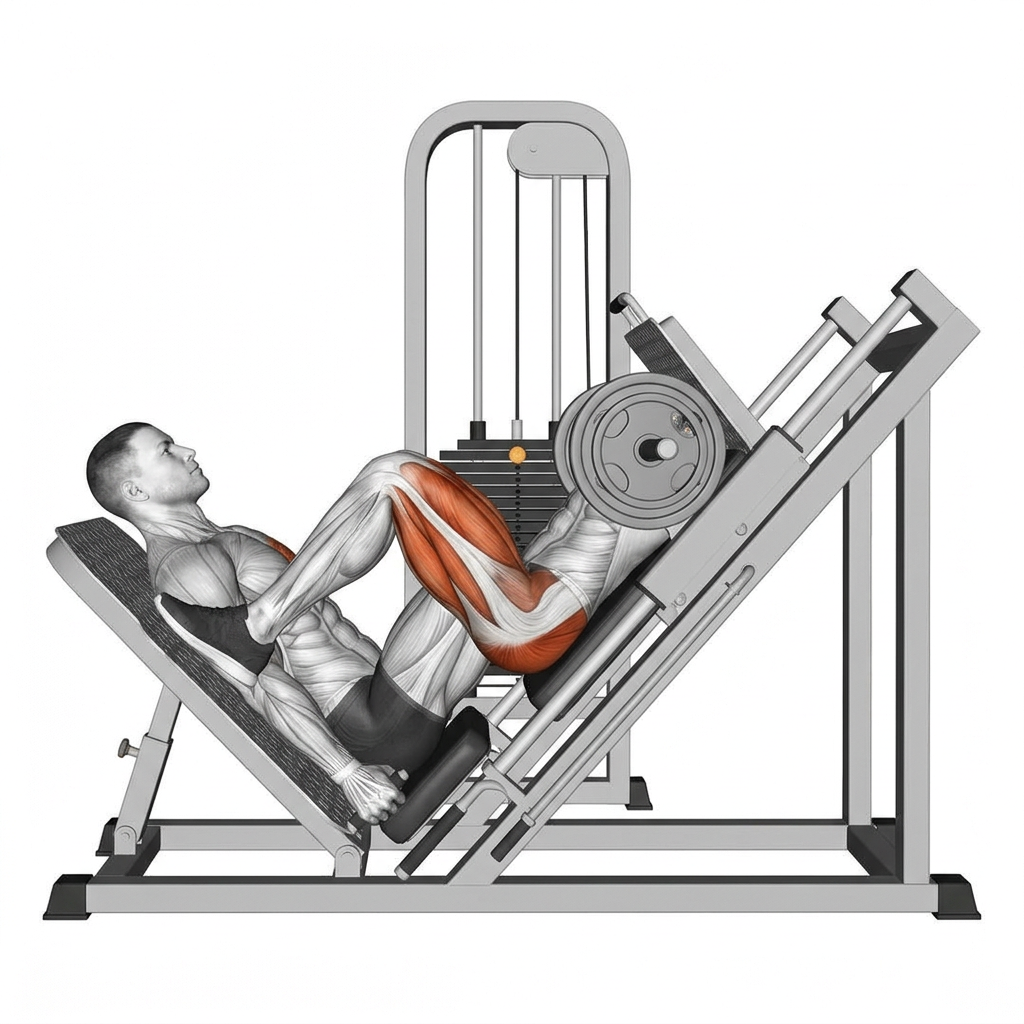
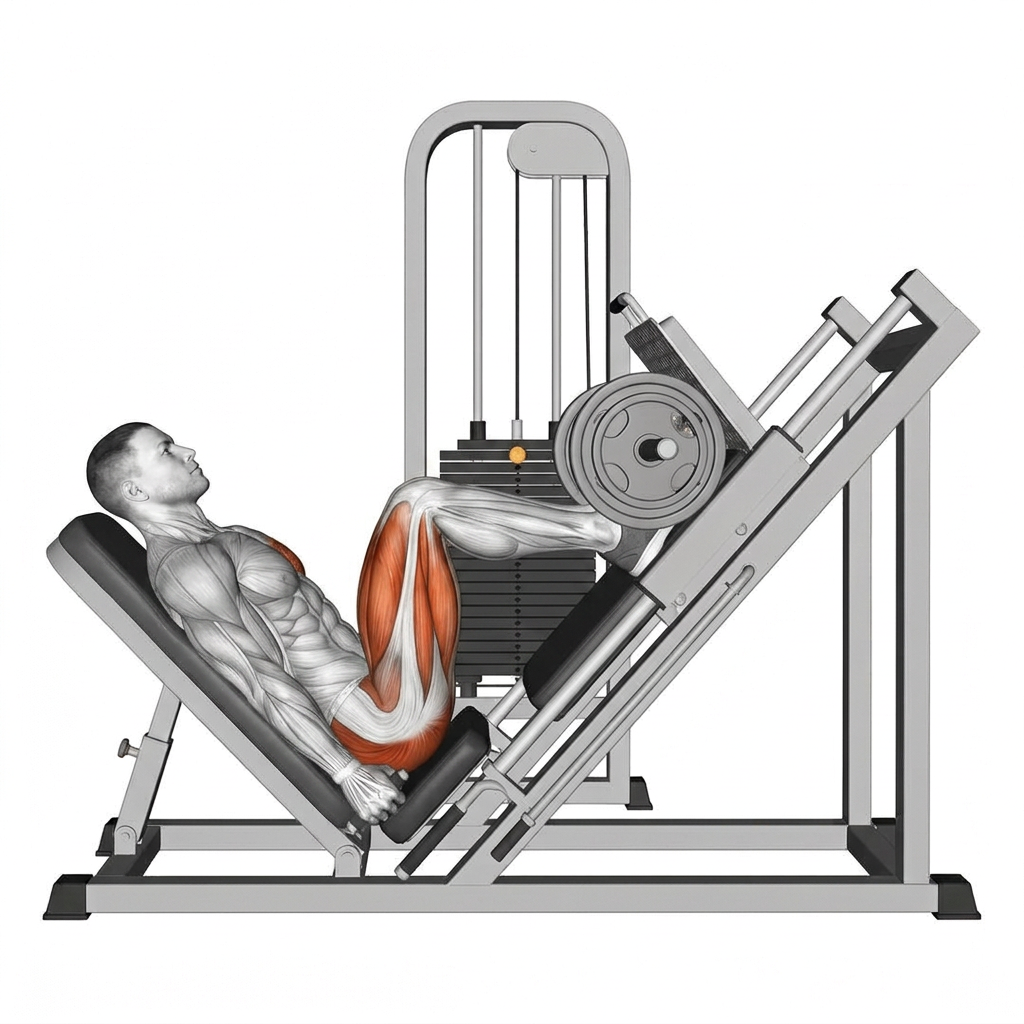
Changes

Changed region(s): [[0.0312, 0.4375, 0.6875, 0.8125]]

diff --git a/roadmap.md b/roadmap.md
@@ -21,3 +21,7 @@
 - [x] Shoulders: dumbbell shoulder press + lateral raise demos
 - [x] Legs: leg press machine demo
 - [x] Arms: cable triceps pushdown demo
+
+## Current
+- [ ] Fix leg press demo frames
+- [ ] General bug check
